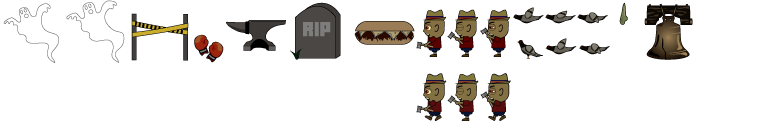
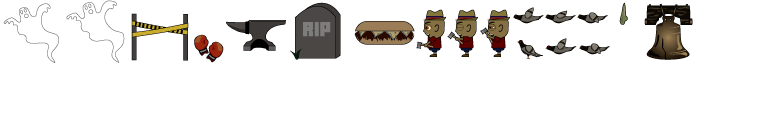
Added functionality for movement and jump with the buttons

Changed region(s): [[0.5312, 0.5538, 0.6875, 0.9231]]

diff --git a/libs/shared/phaser-singleton/src/lib/scenes/world.scene.ts b/libs/shared/phaser-singleton/src/lib/scenes/world.scene.ts
@@ -1,5 +1,8 @@
+/* eslint-disable @typescript-eslint/no-unsafe-call */
+/* eslint-disable @typescript-eslint/no-unsafe-assignment */
 /* eslint-disable @typescript-eslint/no-unsafe-member-access */
 /* eslint-disable no-magic-numbers */
+import { PhaserSingletonService } from '@openforge/shared-phaser-singleton';
 import * as Phaser from 'phaser';
 
 import { GameEngineSingleton } from '../../../../data-access-model/src/lib/classes/singletons/GameEngine.singletons';
@@ -15,7 +18,12 @@ export class WorldScene extends Phaser.Scene {
     private bushesBackgroundAsset = 'assets/city-scene/bushes-day.png'; // * Asset url relative to the app itself
     private bushesBackgroundKey = 'bushes-key'; // * Store the background image name
     private scrollManager: ScrollManager; // * Custom openforge utility for handling scroll
-
+    private floorGroup: Phaser.Physics.Arcade.StaticGroup; // * Group of sprites for the floor
+    private player: Phaser.Types.Physics.Arcade.SpriteWithDynamicBody; // * Player to be used
+    private isMovingLeft: boolean = false; // * Flag to detect if character is pressing left button
+    private isMovingRight: boolean = false; // * Flag to detect is character is pressing right button
+    private isJumping: boolean = false; // * Flag to detect is character is pressing jump button
+    private isOnFloor: boolean = false; // * Flag to detect is character is on floor
     constructor() {
         super({ key: 'preloader' });
     }
@@ -28,12 +36,16 @@ export class WorldScene extends Phaser.Scene {
             this.load.image(this.skyBackgroundKey, this.skyBackgroundAsset);
             // * Now load the city image
             this.load.image(this.cityBackgroundKey, this.cityBackgroundAsset);
-            // * Now load the flat image
+            // * Now load the floor image
             this.load.image(this.flatBackgroundKey, this.flatBackgroundAsset);
             // * Now load the bushes image
             this.load.image(this.bushesBackgroundKey, this.bushesBackgroundAsset);
-            // * Load the obstacles
-            this.load.atlas('spritesheet', `assets/objects/${GameEngineSingleton.world.worldType}.png`, `assets/objects/${GameEngineSingleton.world.worldType}.json`);
+            // * Load the obstacles and the player
+            this.load.atlas('objects-sprite', `assets/objects/${GameEngineSingleton.world.worldType}.png`, `assets/objects/${GameEngineSingleton.world.worldType}.json`);
+            this.load.atlas('character-sprite', `assets/character/character-sprite.png`, `assets/character/character-sprite.json`);
+            //load buttons
+            this.load.image('jump', `assets/buttons/jump.png`);
+            this.load.atlas('controls', `assets/buttons/controls.png`, `assets/buttons/controls.json`);
         } catch (e) {
             console.error('preloader.scene.ts', 'error preloading', e);
         }
@@ -43,33 +55,158 @@ export class WorldScene extends Phaser.Scene {
      * * Phaser will only call create after all assets in Preload have been loaded
      */
     async create(): Promise<void> {
-        console.log('forge.scene.ts', 'Creating Assets...', this.scale.width, this.scale.height);
+        console.log('forge.scene.ts', 'Creating Assets...', this.scale.width, this.scale.height, PhaserSingletonService.activeGame);
 
-        // * Setup the Sky Background Image
-        const skyBackground = this.add.image(0, 0, this.skyBackgroundKey);
-        skyBackground.setScale(2, 10);
-
-        // * Setup the Sky Background Image
-        const cityBackground = this.add.image(400, 110, this.cityBackgroundKey);
-        cityBackground.setScale(2.3, 1.3);
-        cityBackground.setY(350);
-
-        // * Setup the Sky Background Image
-        const flatBackground = this.add.image(0, 500, this.flatBackgroundKey);
-        flatBackground.setDisplaySize(2500, 150);
-
-        // * Setup the bushes background Image
-        const bushesBackground = this.add.image(0, 360, this.bushesBackgroundKey);
-        bushesBackground.setDisplaySize(2500, 400);
+        const [cityBackground, bushesBackground] = this.setBackgrounds();
+        this.createAnimationsCharacter();
+        // Create the infinite floor
+        this.createFloor();
+        this.createButtons();
+        // We add the sprite into the scene
+        this.player = this.physics.add.sprite(50, 420, 'character-sprite');
+        this.player.setVelocityY(-150);
+        this.player.setScale(2, 2);
+        this.physics.add.collider(this.player, this.floorGroup, this.onCollideWithFloor, null, this);
+        this.player.anims.play('walking', true);
         // * Register our custom scroll manager
         this.scrollManager = new ScrollManager(this);
         this.scrollManager.registerScrollingBackground(cityBackground);
         // * Set cameras to the correct position
-        this.cameras.main.setZoom(0.6);
         this.scale.on('resize', this.resize, this);
-
+        // this.cameras.main.setBackgroundColor('#ff0000');
         // * Starting the city infinite movement
         this.startInfiniteMovement([cityBackground, bushesBackground]);
+    }
+
+    private onCollideWithFloor(): void {
+        // this.isOnFloor = true;
+        // this.isJumping = false;
+    }
+
+    /**
+     * Method used to create the buttons of movement and jump
+     *
+     * @private
+     */
+    private createButtons(): void {
+        const buttonLeft = this.add.sprite(100, window.innerHeight - 100, 'controls', 'left');
+        buttonLeft.setInteractive();
+        buttonLeft.on('pointerdown', () => (this.isMovingLeft = true), this);
+        buttonLeft.on('pointerup', () => (this.isMovingLeft = false), this);
+        const buttonRight = this.add.sprite(300, window.innerHeight - 100, 'controls', 'right');
+        buttonRight.setInteractive();
+        buttonRight.on('pointerdown', () => (this.isMovingRight = true), this);
+        buttonRight.on('pointerup', () => (this.isMovingRight = false), this);
+        const buttonJump = this.add.sprite(window.innerWidth - 200, window.innerHeight - 100, 'jump');
+        buttonJump.setInteractive();
+        buttonJump.on('pointerdown', () => (this.isJumping = true), this);
+        buttonJump.on('pointerup', () => (this.isJumping = false), this);
+    }
+
+    private createAnimationsCharacter(): void {
+        this.anims.create({
+            key: 'walking',
+            frames: this.anims.generateFrameNames('character-sprite', {
+                prefix: 'walk',
+                end: 3,
+                zeroPad: 3,
+            }),
+            frameRate: 5,
+            repeat: -1,
+        });
+        this.anims.create({
+            key: 'jumping',
+            frames: this.anims.generateFrameNames('character-sprite', {
+                prefix: 'jump',
+                end: 0,
+                zeroPad: 3,
+            }),
+            frameRate: 3,
+            repeat: 0,
+        });
+        this.anims.create({
+            key: 'damaged',
+            frames: this.anims.generateFrameNames('character-sprite', {
+                prefix: 'damage',
+                end: 0,
+                zeroPad: 3,
+            }),
+            repeat: -1,
+        });
+    }
+    update() {
+        // Move the ground to the left of the screen and once it is off of screen adds it next the current one
+        this.floorGroup.children.iterate((floorSprite: Phaser.GameObjects.Sprite) => {
+            floorSprite.x -= 2;
+            // IF an sprite go out completely from screen then add it at the end
+            if (floorSprite.x <= -floorSprite.width) {
+                floorSprite.x += floorSprite.width * this.floorGroup.getLength();
+            }
+        });
+        this.evaluateMovement();
+    }
+
+    private evaluateMovement(): void {
+        if (this.isMovingLeft) {
+            this.player.flipX = true;
+            this.player.setVelocityX(-200);
+        } else if (this.isMovingRight) {
+            this.player.flipX = false;
+            this.player.setVelocityX(200);
+        } else {
+            if (this.player.body.touching.down) {
+                this.player.setVelocityX(0);
+                this.player.play('walking', true);
+            }
+        }
+        if (this.isJumping && this.player.body.touching.down) {
+            this.player.setVelocityY(-300);
+            this.player.play('jumping');
+        }
+    }
+
+    /**
+     * Method used to create the infinite ground
+     *
+     * @return void
+     */
+    private createFloor(): void {
+        // Create a group of sprites to represent the infinite ground
+        this.floorGroup = this.physics.add.staticGroup();
+        const textureWidth = this.textures.get(this.flatBackgroundKey).getSourceImage().width;
+        const textureHeight = this.textures.get(this.flatBackgroundKey).getSourceImage().height;
+        // Calculates the amount of sprites needed to cover the screen
+        const numSprites = Math.ceil(window.innerWidth / textureWidth);
+        // Adds the sprites individually to the group and configs them as immutables
+        for (let i = 0; i < numSprites; i++) {
+            const floorSprite: any = this.floorGroup.create(i * textureWidth, (PhaserSingletonService.activeGame.config.height as number) - textureHeight * 4, this.flatBackgroundKey);
+            floorSprite.setScale(4);
+            floorSprite.setOrigin(0.3, 0);
+            floorSprite.setImmovable(true);
+        }
+    }
+
+    /**
+     * Method used to setup the backgrounds to be displayed in each level
+     *
+     * @returns Phaser.GameObjects.Image[] returns the city and the bushes
+     * TODO: Bushes should popup randomly
+     */
+    private setBackgrounds(): Phaser.GameObjects.Image[] {
+        // * Setup the Sky Background Image
+        const skyBackground = this.add.image(0, 0, this.skyBackgroundKey);
+        const scaleX = window.innerWidth / skyBackground.width;
+        const scaleY = window.innerHeight / skyBackground.height;
+        skyBackground.setScale(scaleX, scaleY);
+        // * Setup the City Background Image
+        const cityBackground = this.add.image(400, 110, this.cityBackgroundKey);
+        cityBackground.setScale(2.3, 1.3);
+        cityBackground.setY(350);
+
+        // * Setup the bushes background Image
+        const bushesBackground = this.add.image(0, 360, this.bushesBackgroundKey);
+        bushesBackground.setDisplaySize(2500, 400);
+        return [cityBackground, bushesBackground];
     }
 
     /**
@@ -77,7 +214,7 @@ export class WorldScene extends Phaser.Scene {
      *
      * @param cityBackground as Phaser.GameObjects.Image
      * */
-    private startInfiniteMovement(cityBackground: Phaser.GameObjects.Image[]) {
+    private startInfiniteMovement(cityBackground: Phaser.GameObjects.Image[]): void {
         const screenWidth = this.game.config.width as number;
 
         // * Calculate the duration based on the desired speed of movement

diff --git a/libs/shared/data-access-model/src/lib/classes/World.class.ts b/libs/shared/data-access-model/src/lib/classes/World.class.ts
@@ -1,5 +1,4 @@
-import { Apple, Bottle, ChesseSteak, ChineseFood, Cone, Gloves, LibertyBell, Pigeon, PoopingPigeon, Tourist, Trashcan } from '../..';
-import { LevelsEnum } from '../enums/levels.enum';
+import { Apple, Bottle, ChesseSteak, ChineseFood, Cone, Gloves, LevelsEnum, LibertyBell, Pigeon, PoopingPigeon, Tourist, Trashcan } from '../..';
 import { Healer } from './healers/healer.class';
 import { Obstacle } from './obstacles/obstacle.class';
 
@@ -9,7 +8,7 @@ import { Obstacle } from './obstacles/obstacle.class';
 export class World {
     public obstacles: Obstacle[] = []; // * Obtacles to be shown in the world
     public healers: Healer[] = []; // * Obtacles to be shown in the world
-    public worldType: LevelsEnum; // * Location where the world level will be located
+    public worldType: LevelsEnum = LevelsEnum.DAYTIME; // * Location where the world level will be located
     constructor() {}
 
     public static build(worldType: LevelsEnum): World {
